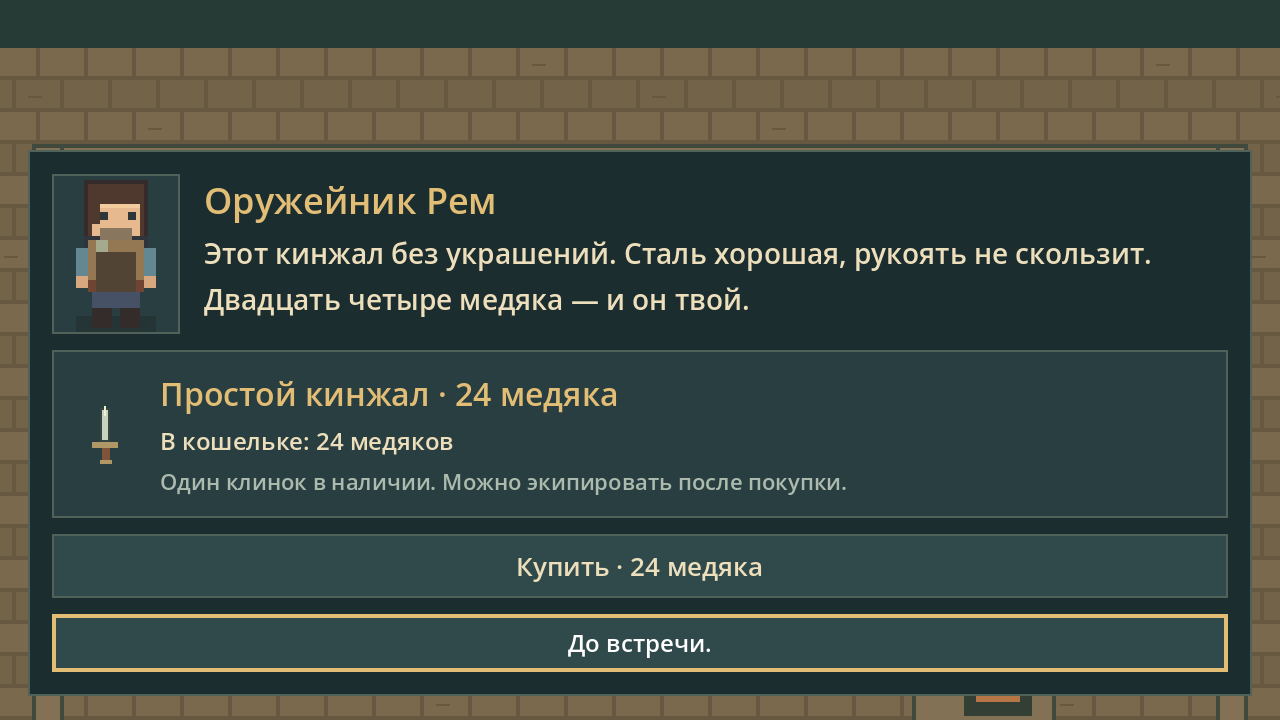
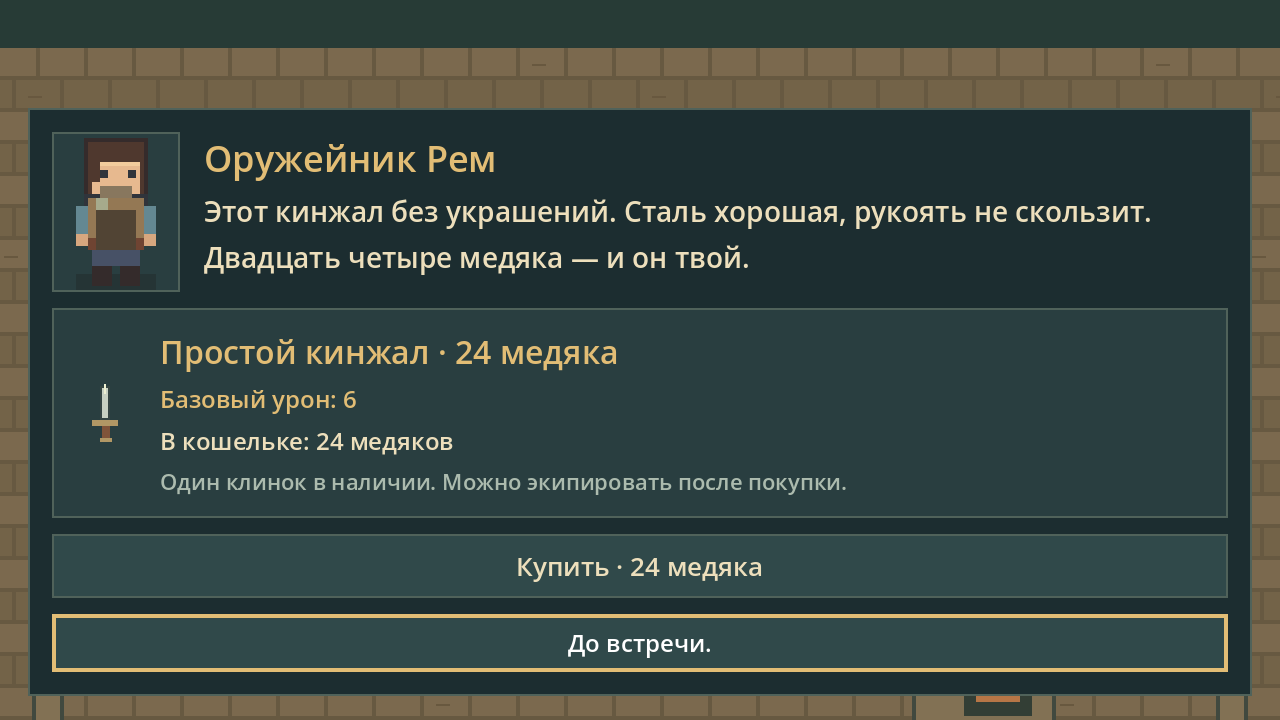
Apply equipped weapon damage and visuals; silence transition save notices

Changed region(s): [[0.0, 0.1528, 1.0, 0.5806], [0.0625, 0.55, 0.0938, 0.6417], [0.9375, 0.4278, 0.9688, 0.4889]]

diff --git a/DEVELOPMENT_LOG.md b/DEVELOPMENT_LOG.md
@@ -305,3 +305,39 @@
 Обновлены AGENTS, PROJECT_STATE, README, DESIGN_ROADMAP и docs/CITY_SLICE.md.
 СТОП: городской срез готов к прохождению Филиппом. Не продолжать самостоятельно
 боевой этап, не добавлять врагов, новые магазины, рост и большие системы районов.
+
+## 14.09.2026 — исправление экипировки в бою и тихие переходы
+
+Автор обнаружил: без покупки кинжала герой рисовал меч и бил с прежней
+эффективностью; экипировка не влияла на бой, урон отсутствовал в описании.
+Также попросил убрать уведомления о сохранении после каждого перехода.
+
+Причина: post_combat использовал счётчик из трёх попаданий и общий рисунок
+клинка, независимо от уже сохраняемого equipped_weapon.
+
+- При начале атаки фиксируются экипированное оружие и weapon_base_damage().
+  Кулак наносит 1, кинжал 6. Владение без экипировки не усиливает удар;
+  снятие возвращает кулак. Вместо счётчика ползун имеет 18 здоровья:
+  18 попаданий без оружия или прежние 3 с кинжалом. Полоса здоровья пропорциональна.
+- Без оружия рисуется кулак, с кинжалом — короткий клинок. Геометрия попаданий,
+  управление, поведение противника, поражение и сохранённая победа сохранены.
+- Базовый урон указан в магазине, карточке кинжала и текущем слоте оружия.
+- Успешное сохранение перехода не создаёт уведомления. Запись остаётся;
+  ручное подтверждение и ошибки автосохранения продолжают отображаться.
+- Формат сохранений остаётся 5, пользовательские слоты не изменялись тестами.
+
+Фактически проверено:
+
+- Отдельный tests/combat.gd: 0 ошибок. Реальные события мыши проверили
+  кулак до покупки, кинжал в сумке, экипировку, урон 6 и снятие с возвратом к 1.
+- Полный tests/run_checks.ps1 -IncludeVisual: все 12 проверок прошли без
+  ошибок Godot, включая бой, город, прежние задания, ввод, меню и миграции слотов.
+- tests/city.gd проверяет настоящий активный переход и записанную целевую
+  локацию при пустом уведомлении, ручное подтверждение и сообщение об ошибке
+  при намеренно заблокированной записи в отдельном тестовом слоте.
+- Графические city_views и отдельная отрисовка двух атак: ошибок нет.
+  Просмотрены магазин, сумка, слот героя, кулак и кинжал; интерфейс помещается
+  в 640×360. Обновлены соответствующие кадры в docs/screenshots.
+
+Обновлены PROJECT_STATE, AGENTS, README, DESIGN_ROADMAP и описания P2/города.
+Остановиться для проверки Филиппом. Новых противников, боевых систем и этапов нет.

diff --git a/PROJECT_STATE.md b/PROJECT_STATE.md
@@ -59,7 +59,7 @@
   Описание: docs/EXPLORATION_P1.md и docs/COMBAT_P2.md.
 - post_combat.gd — локальный контроллер караульной: ЛКМ, подготовка/удар/восстановление
   врага, путь вокруг мебели, отступление, поражение, компактный HUD. post_combat_art.gd
-  рисует ползуна, клинок и предупреждение. Гильдия и площадь остаются безопасными.
+  рисует ползуна, кулак/кинжал по экипировке и предупреждение. Город безопасен.
 - Боевой HUD по правке автора: две тонкие полосы у нижнего левого края,
   здоровье сверху, мана снизу. Без имени, чисел здоровья и обучающей подсказки.
   Мана пока только полная полоса интерфейса; заклинаний и расхода ещё нет.
@@ -70,7 +70,10 @@
   и короткие разговоры. Ирридия, Селеста и Астра статичны за правым столом гильдии.
 - weapon_catalog: простой кинжал за 24 медяка, урон в модели 6 против 1 без оружия.
   Покупка один раз через GameState.buy_dagger; set_equipped_weapon сохраняет слот.
-  При ошибке записи покупка/смена оружия откатываются. post_combat не менялся.
+  При ошибке записи покупка/смена оружия откатываются. post_combat читает урон
+  экипировки при начале удара; ползун имеет 18 здоровья (18 ударов кулаком / 3 кинжалом).
+  Урон показан в магазине, карточке кинжала и слоте оружия. Кинжал в сумке
+  не усиливает удар. Переходы сохраняются тихо; ручные подтверждения и ошибки видны.
   Полное описание и ограничения — docs/CITY_SLICE.md.
 - `quest_catalog.gd` — определения дополнительных поручений и предметов.
 - `ui_theme.gd` — единый стиль и изоляция фокуса; `game_hud.gd` — компактный HUD,
@@ -95,7 +98,8 @@
    оружейная, кинжал и экипировка. После проверки — СТОП для прохождения Филиппом.
    Это не приёмка P2 и не разрешение продолжать бой или вводить новых врагов.
 4. Дальнейшее направление выбирается автором. Рост, книги, расширение оружия,
-   применение его урона в бою и периоды суток остаются планом.
+   периоды суток остаются планом. Связь экипировки с существующим боем исправлена
+   по отдельному сообщению автора; это не разрешение расширять боевой этап.
 
 Не добавлять десятки локаций и предметов до проверки этого цикла. Не выдавать
 план за реализацию. Перед завершением работы обновить этот файл и журнал,

diff --git a/docs/COMBAT_P2.md b/docs/COMBAT_P2.md
@@ -15,8 +15,10 @@
   стола по свободным клеткам. При сближении приседает на 0,72 с и отмечает сектор.
   Направление фиксируется; выход из сектора позволяет избежать удара.
   Сам удар 0,16 с, затем 0,95 с восстановления. Контакт сам по себе не наносит урон.
-- Герой: 100 здоровья, удар ползуна: 25, ползун выдерживает три попадания.
-  Получение урона выделяется цветом, замах — клинком, здоровье врага — сегментами.
+- Герой: 100 здоровья, удар ползуна: 25, ползун: 18 здоровья.
+  Кулак наносит 1, экипированный кинжал — 6 (18 или 3 попадания до победы).
+  Получение урона выделяется цветом, атака — кулаком или коротким кинжалом,
+  здоровье врага — компактной пропорциональной полосой.
   Значения временные и отделены от ещё не работающей системы роста характеристик.
 - Урон обоих участников требует дистанцию, направление и отсутствие стены/мебели.
   Повторные клики не прерывают подготовленный удар ползуна.
@@ -68,6 +70,7 @@
 После технической проверки — остановиться для оценки Филиппом. Приятность удара,
 интересность и темп не объявляются доказанными автоматическими проверками.
 
-Городской срез добавил покупку и экипировку кинжала, но не подключал его урон
-к этому боевому прототипу. Новых врагов и изменений баланса нет. Текущий формат
-слотов — 5, прежняя победа сохраняется. См. CITY_SLICE.md.
+После городского среза автор обнаружил, что экипировка не влияла на бой.
+Исправление подключает weapon_base_damage() и сохраняет оружие/урон на начало
+замаха, чтобы его вид и попадание соответствовали друг другу. Новых врагов нет.
+Текущий формат слотов — 5, прежняя победа сохраняется. См. CITY_SLICE.md.

diff --git a/docs/CITY_SLICE.md b/docs/CITY_SLICE.md
@@ -63,11 +63,13 @@ flowchart TD
   изменение откатывается: покупатель сохраняет деньги, прежнее оружие остаётся.
 
 Модель оружия отделена в weapon_catalog: пока базовый урон без оружия 1,
-кинжала 6. GameState.weapon_base_damage() предоставляет значение будущему бою.
-Это начальное соотношение данных, а не настройка врагов или обещание конкретного
-числа ударов. Существующий post_combat не подключён к этому значению и не изменён.
-Принцип дальнейшего баланса: голыми руками победа возможна, но медленна;
-кинжал должен заметно менять практическую эффективность.
+кинжала 6. По исправлению автора post_combat получает это значение через
+GameState.weapon_base_damage() при начале каждого удара. Кулак и короткий
+кинжал рисуются по экипировке; оружие в сумке без экипировки не влияет на бой.
+Ползун имеет 18 здоровья: 18 попаданий кулаком или 3 кинжалом. Урон виден
+в магазине, карточке предмета и слоте оружия. Это временные значения P2.
+Формат слотов остаётся 5. Успешные переходы автосохраняются тихо, ошибки
+записи и подтверждение ручного сохранения продолжают отображаться.
 
 ## Сохранения
 

diff --git a/README.md b/README.md
@@ -78,8 +78,11 @@ Godot 4.7.2, GDScript, Compatibility.
 выбери его и нажми «Экипировать»; слот и снятие также доступны на вкладке «Герой».
 Формат сохранений 5 загружает прежние версии 1–4 с пустым слотом оружия.
 
-Южные ворота ведут к Старой дороге и свободны без оружия. Существующий бой
-не изменён: данные урона кинжала подготовлены для будущего подключения.
+Южные ворота ведут к Старой дороге и свободны без оружия. Кулак наносит 1 урона,
+экипированный кинжал — 6. У ползуна 18 здоровья: соответственно 18 или 3 попадания.
+Урон указан в магазине, описании кинжала и слоте оружия. Кинжал в сумке без
+экипировки не усиливает удар. Переходы автосохраняются без уведомления;
+подтверждение ручного сохранения и сообщения об ошибках остаются.
 Подробности и карта связей — [городской срез](docs/CITY_SLICE.md).
 
 ## Свободное исследование

diff --git a/AGENTS.md b/AGENTS.md
@@ -29,3 +29,6 @@
   самостоятельно врагов, рост, ремесло и следующий боевой этап.
 - Незавершённый бой сбрасывает здоровье обеих сторон при загрузке/отступлении;
   победа сохраняется. Это временное правило P2 без потери вещей и денег.
+- По исправлению автора экипировка теперь влияет на существующий бой: кулак 1,
+  кинжал 6, здоровье ползуна 18. Новых врагов/систем не добавлять. Успешные
+  переходы сохраняются без уведомления; ручные подтверждения и ошибки видны.
